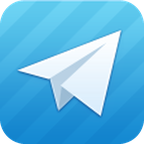
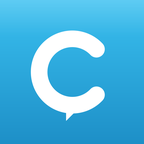
release: v1.0 as Classicgram, an unofficial Telegram client
Prepares the first public Cydia release and brings the app into line with
Telegram's API Terms of Service, which forbid a third-party client from using
the "Telegram" name or the official logo:

- Renamed the app to Classicgram (CFBundleDisplayName / CFBundleName), a short
  distinct name that fits the home-screen label and collides with no existing
  client.
- Replaced every app icon with an original mark (a white "C" speech bubble on a
  blue gradient) — the official Telegram paper-plane logo is gone.
- The Cydia control now names the package Classicgram and states in its
  description that it is an unofficial client using the Telegram API, part of
  the Telegram ecosystem, not affiliated with Telegram FZ-LLC, with a Depiction
  and repo-hosted Icon.
- Package version set to 1.0 (control + Makefile PACKAGE_VERSION); the app still
  reports its Telegram feature-parity version 1.16.48 in Settings.

The bundle identifier stays com.kern0x1b.telegram so an installed session keeps
its keychain group.

diff --git a/CHANGELOG.md b/CHANGELOG.md
@@ -5,6 +5,13 @@ All notable changes to this project are documented here. The format follows
 publish versioned releases, so changes are grouped under **Unreleased** and dated
 when they land on `main`.
 
+## [1.0] - 2026-09-13
+
+First public release as **Classicgram**, an unofficial Telegram client, distributed as a
+Cydia `.deb` (`com.kern0x1b.telegram`) for armv7 + arm64. The [feature table](README.md#feature-table) lists what the client
+does; the app reports its Telegram feature-parity version (1.16.48) in Settings,
+while `1.0` is the release/package version.
+
 ## [Unreleased]
 
 Telegram Classic is developed continuously on `main`; there is no tagged release.
@@ -19,4 +26,5 @@ what works. Notable recent changes:
   editorconfig, issue/PR templates, SECURITY, CONTRIBUTING, CODE_OF_CONDUCT) were
   added.
 
-[Unreleased]: https://github.com/kern0x1b/telegram-classic/commits/main
+[Unreleased]: https://github.com/kern0x1b/telegram-classic/compare/v1.0...HEAD
+[1.0]: https://github.com/kern0x1b/telegram-classic/releases/tag/v1.0
